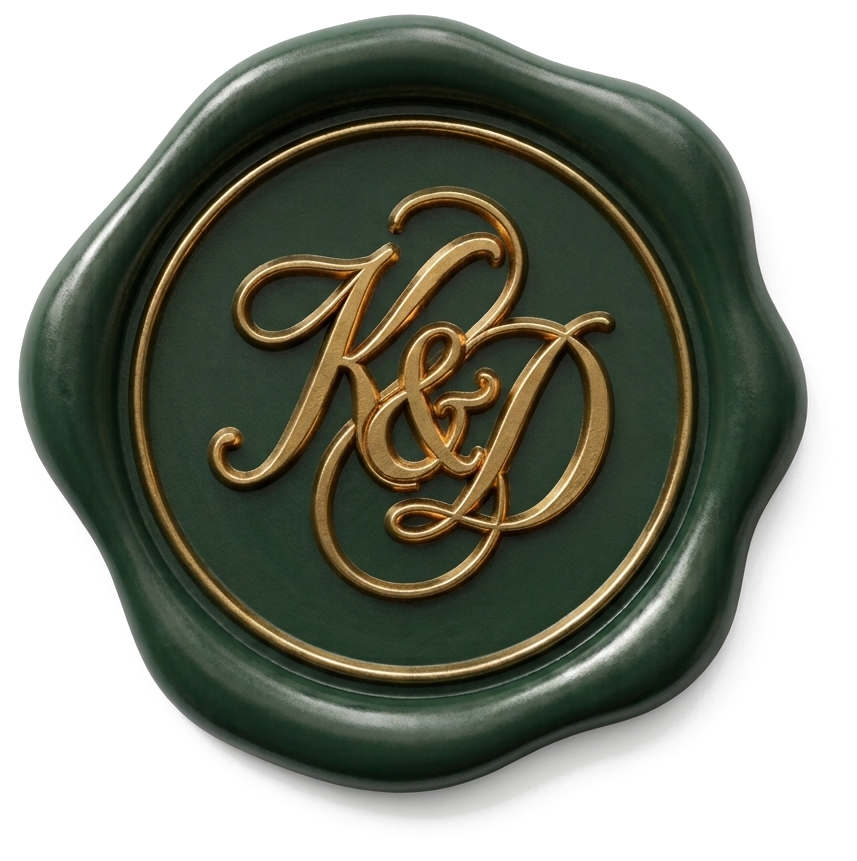
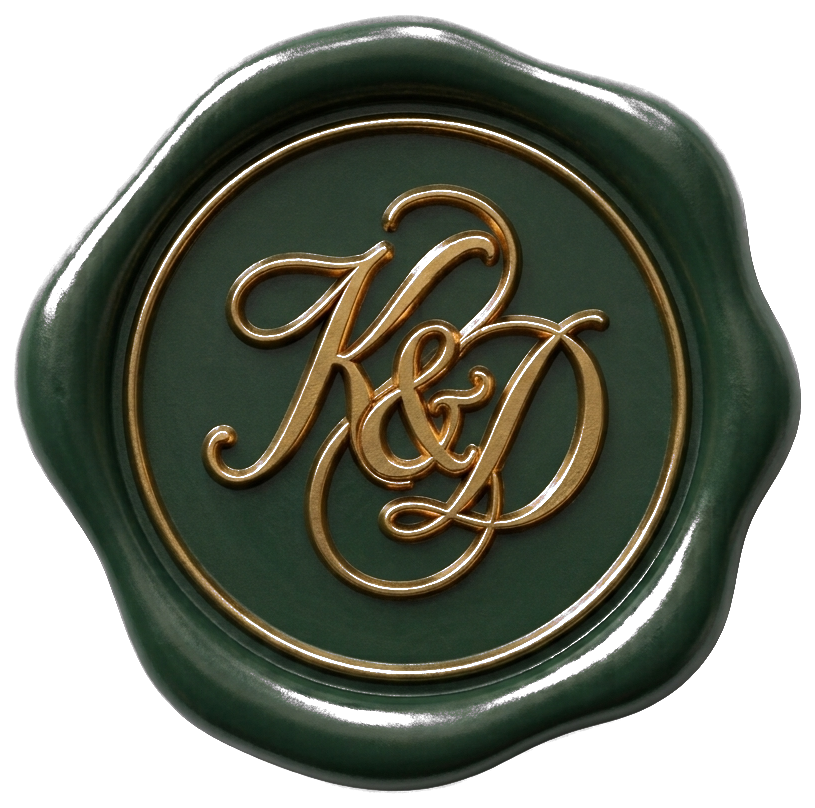
Add calendar button, fix seal fringe, restyle footer
- Remove the white/gray halo around the wax seal: the previous
  cutout kept the product photo's soft drop shadow as a semi-opaque
  fringe. Reprocessed with a tolerance-based background removal that
  eats the smooth shadow gradient while stopping cleanly at the
  wax seal's actual scalloped edge, then decontaminated the
  remaining edge pixels' color.
- Add an "+ Add to calendar" button to the thank-you overlay. Same
  approach as the main invite: Android opens a Google Calendar
  "add event" link, everything else downloads an .ics (handled
  automatically by Apple Calendar on iOS). Since only the date and
  venue are known at this stage, it's a single all-day event
  spanning 11-12 Dec 2026 at IIDM Resort, Lucknow.
- Footer background switches from a flat CSS gradient to the same
  textured card background image (cropped to its middle), since the
  gradient read as too smooth/flat next to the rest of the page.
- Footer text now reads "With love and warm regards, Kalpana &
  Mahendra" (the parents, matching the main card's footer) — only
  in the footer; the rest of the page still refers to the couple.

Claude-Session: https://claude.ai/code/session_01TMgjuH1AqA9uLCMMFBLSxU

diff --git a/src/js/save-the-date.js b/src/js/save-the-date.js
@@ -122,4 +122,72 @@
       form.reset();
     });
   }
+
+  // ---------- Add to calendar ----------
+  // Only the date and venue are confirmed at this stage (times follow with the formal
+  // invitation), so this is a single all-day event spanning both wedding dates.
+
+  const tyCal = document.getElementById('std-ty-cal');
+
+  function icsEvent(uid, title, startDate, endDate) {
+    return [
+      'BEGIN:VEVENT',
+      `UID:${uid}@dkwedding`,
+      `DTSTART;VALUE=DATE:${startDate}`,
+      `DTEND;VALUE=DATE:${endDate}`,
+      `SUMMARY:${title}`,
+      'LOCATION:IIDM Resort\\, Lucknow',
+      'END:VEVENT'
+    ].join('\r\n');
+  }
+
+  function downloadICS(filename, events) {
+    const ics = [
+      'BEGIN:VCALENDAR',
+      'VERSION:2.0',
+      'PRODID:-//DK Wedding//EN',
+      'CALSCALE:GREGORIAN',
+      ...events,
+      'END:VCALENDAR'
+    ].join('\r\n');
+    const blob = new Blob([ics], { type: 'text/calendar;charset=utf-8' });
+    const url = URL.createObjectURL(blob);
+    const a = document.createElement('a');
+    a.href = url;
+    a.download = filename;
+    document.body.appendChild(a);
+    a.click();
+    a.remove();
+    setTimeout(() => URL.revokeObjectURL(url), 1000);
+  }
+
+  function googleCalUrl(title, startDate, endDate) {
+    const params = new URLSearchParams({
+      action: 'TEMPLATE',
+      text: title,
+      dates: `${startDate}/${endDate}`,
+      location: 'IIDM Resort, Lucknow'
+    });
+    return `https://calendar.google.com/calendar/render?${params.toString()}`;
+  }
+
+  if (tyCal) {
+    // iOS hands a downloaded .ics straight to Apple Calendar, so keep that path there.
+    // Chrome on Android just drops .ics files into Downloads with no auto-import, so send
+    // Android guests straight to Google Calendar's own "add event" link instead.
+    const isIOS = /iP(hone|ad|od)/.test(navigator.userAgent);
+    const isAndroid = /Android/.test(navigator.userAgent);
+
+    const title = "Dishakkshi & Kartikay's Wedding";
+    const startDate = '20261211';
+    const endDate = '20261213'; // exclusive end date, so the event spans the 11th and 12th
+
+    tyCal.addEventListener('click', () => {
+      if (isAndroid && !isIOS) {
+        window.open(googleCalUrl(title, startDate, endDate), '_blank', 'noopener');
+      } else {
+        downloadICS('DK-Save-the-Date.ics', [icsEvent('savethedate', title, startDate, endDate)]);
+      }
+    });
+  }
 })();

diff --git a/index.html b/index.html
@@ -10,7 +10,7 @@
 <link rel="preconnect" href="https://fonts.gstatic.com" crossorigin>
 <link href="https://fonts.googleapis.com/css2?family=Cormorant+Garamond:ital,wght@0,400;0,500;0,600;1,400&family=Great+Vibes&display=swap" rel="stylesheet">
 
-<link rel="stylesheet" href="src/css/save-the-date.css?v=6">
+<link rel="stylesheet" href="src/css/save-the-date.css?v=7">
 </head>
 <body>
 
@@ -95,7 +95,7 @@
 <footer class="std-footer">
   <img class="std-footer-logo" src="resources/images/SaveTheDateGanesha.png" alt="" aria-hidden="true">
   <p class="std-footer-script">With love and warm regards,</p>
-  <p class="std-footer-names">Dishakkshi &amp; Kartikay</p>
+  <p class="std-footer-names">Kalpana &amp; Mahendra</p>
   <p class="std-footer-see">We look forward to celebrating with you</p>
 </footer>
 
@@ -104,10 +104,11 @@
     <img class="std-ty-seal" src="resources/images/seal_no_bg.png" alt="" aria-hidden="true">
     <p class="std-ty-script">Thank You</p>
     <p class="std-ty-msg" id="std-ty-msg">We are grateful to have our family and loved ones by our side as we celebrate this beautiful occasion. Your presence, blessings and warm wishes mean the world to us.</p>
+    <button class="std-ty-cal" id="std-ty-cal" type="button">＋ Add to calendar</button>
     <button class="std-ty-close" id="std-ty-close" type="button">Back to RSVP</button>
   </div>
 </div>
 
-<script src="src/js/save-the-date.js?v=6"></script>
+<script src="src/js/save-the-date.js?v=7"></script>
 </body>
 </html>

diff --git a/src/css/save-the-date.css b/src/css/save-the-date.css
@@ -518,8 +518,25 @@ textarea.std-f-input { resize: vertical; }
   font-size: 16px;
   line-height: 1.7;
   color: var(--gold-soft);
-  margin: 16px 0 30px;
+  margin: 16px 0 26px;
 }
+
+.std-ty-cal {
+  display: block;
+  width: 100%;
+  font-family: inherit;
+  font-size: 14px;
+  letter-spacing: 0.1em;
+  color: var(--bg-deep);
+  background: linear-gradient(170deg, var(--gold-hi), var(--gold) 60%, #9a7434);
+  border: none;
+  border-radius: 40px;
+  padding: 13px 20px;
+  margin-bottom: 14px;
+  cursor: pointer;
+}
+
+.std-ty-cal:active { opacity: 0.85; }
 
 .std-ty-close {
   font-family: inherit;
@@ -539,12 +556,26 @@ textarea.std-f-input { resize: vertical; }
 /* ---------- Footer ---------- */
 
 .std-footer {
+  position: relative;
   width: 100%;
   max-width: 480px;
-  background:
-    radial-gradient(120% 90% at 50% 0%, #0d2a1c 0%, var(--bg-deep) 55%, #020705 100%);
+  background: url('../../resources/images/SaveTheDateBG.jpg') center / cover no-repeat;
   text-align: center;
   padding: 56px 26px 64px;
+  overflow: hidden;
+}
+
+.std-footer::before {
+  content: '';
+  position: absolute;
+  inset: 0;
+  background: rgba(2,8,5,0.45);
+  pointer-events: none;
+}
+
+.std-footer > * {
+  position: relative;
+  z-index: 2;
 }
 
 .std-footer-logo {
